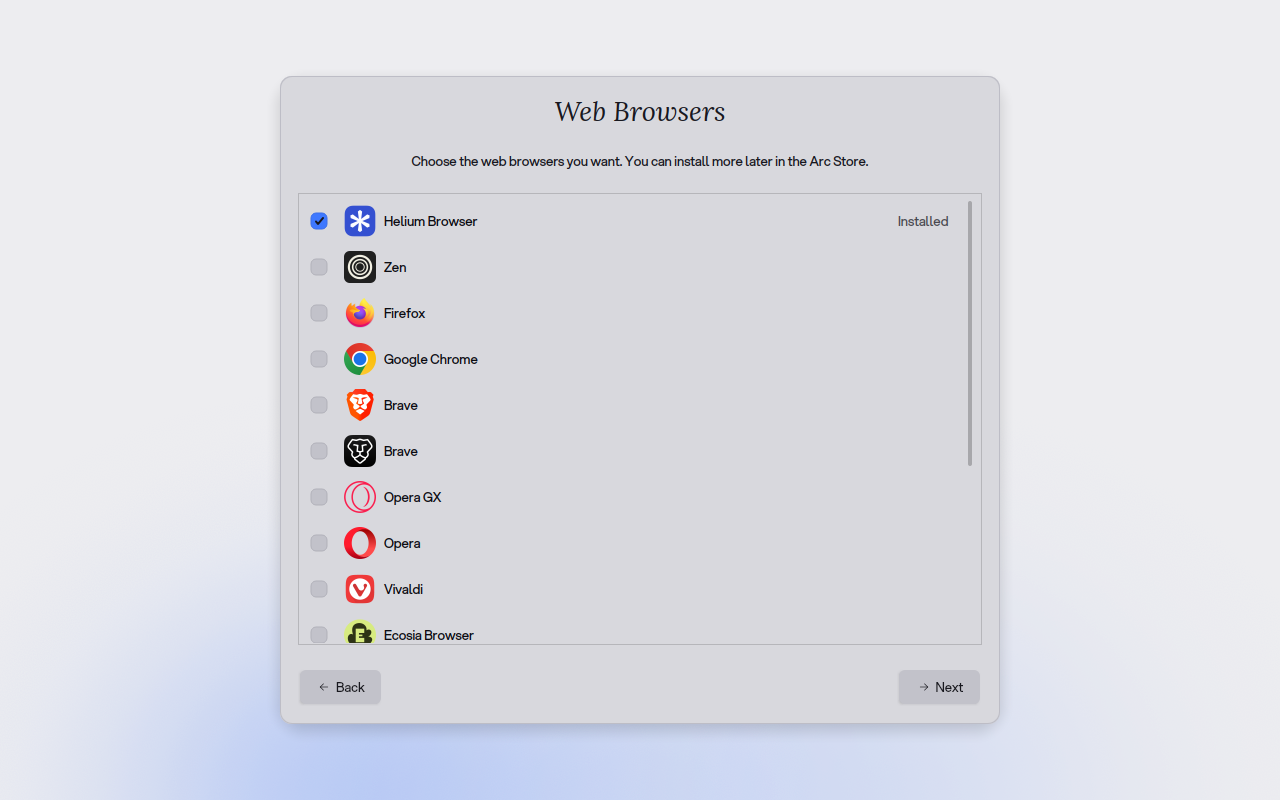
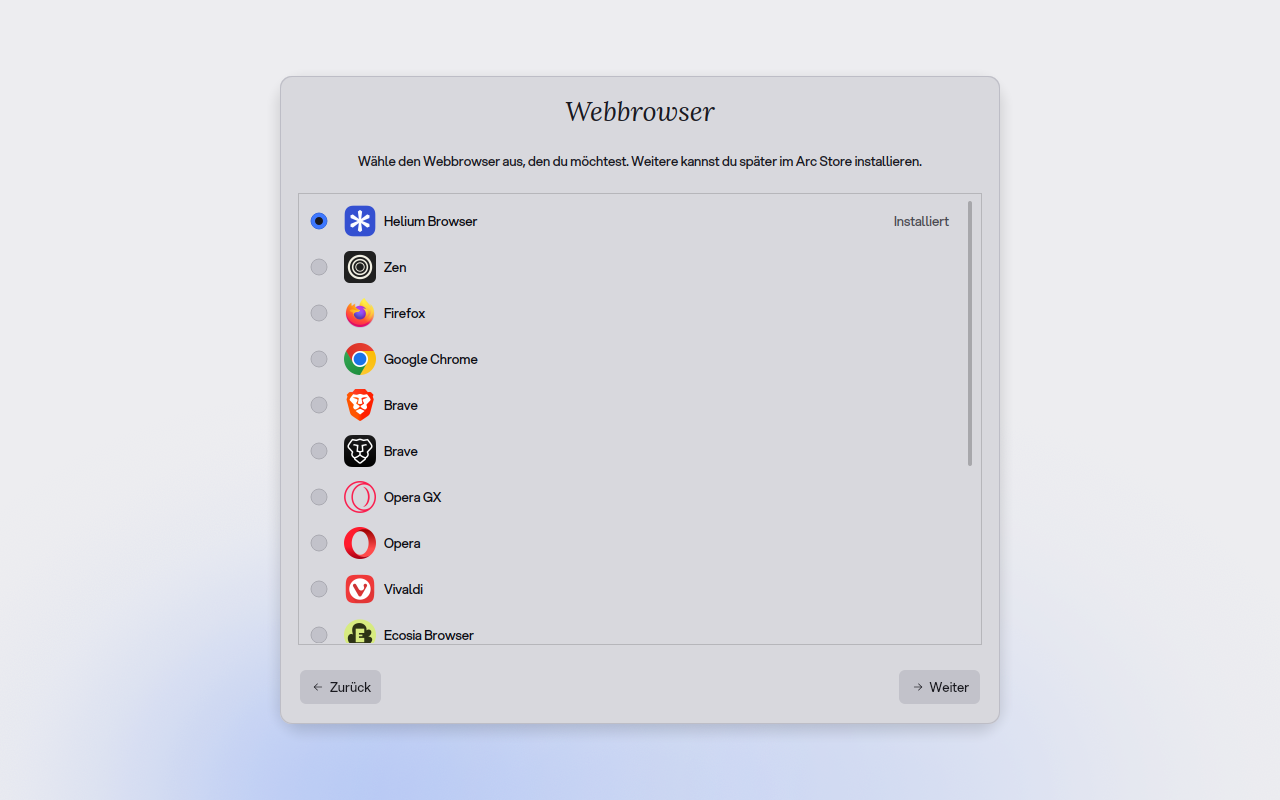
Update browser page to use radio buttons instead of checkboxes

diff --git a/README.md b/README.md
@@ -15,7 +15,7 @@ Fedora's `plasma-setup` package with the patches in `patches/` on top. Fedora's 
 
 | Updates page (dark) | Web browser page |
 |---|---|
-| ![The updates page downloading a new system image](screenshots/updates.png) | ![The web browser page with a list of browsers to install](screenshots/browser.png) |
+| ![The updates page downloading a new system image](screenshots/updates.png) | ![The web browser page with a list of browsers to choose from](screenshots/browser.png) |
 
 ## Usage
 
@@ -81,4 +81,4 @@ The upstream tree installs a clang-format pre-commit hook. Run `git clang-format
 | 0007 | German: du | The German translation addresses the user with du instead of Sie, including the account page title ("Über dich"). |
 | 0008 | Wallpaper page | A page after the theme switch that offers the wallpapers in `wallpapers.json` as thumbnails, in their dark variant in dark mode. The pick goes on the new user's desktop along with the theme. |
 | 0009 | Updates page | After the network page: downloads and stages the latest system image through rpm-ostree, with progress, and restarts right away when there was one (setup then starts again). Setup goes on once up to date, or when updating failed. Skipped without internet: pages can now skip themselves with `skipPage()`. The setup user may upgrade and restart without a password. |
-| 0010 | Web browser page | After the updates page: offers the browsers on the Forge browser list (the one the Arc Store shows). Ticked ones are installed and unticked ones removed right away, as system-wide Flatpaks; setup only goes on with at least one. One installed browser becomes the new user's default (`mimeapps.list`, kdeglobals). Skipped without internet. The setup user may install Flatpak apps and runtimes, and remove apps, without a password. |
+| 0010 | Web browser page | After the updates page: offers the browsers on the Forge browser list (the one the Arc Store shows) as radio buttons. The chosen one is installed right away as a system-wide Flatpak and becomes the new user's default (`mimeapps.list`, kdeglobals), then the others on the list are removed; setup only goes on with one chosen. Skipped without internet. The setup user may install Flatpak apps and runtimes, and remove apps, without a password. |
